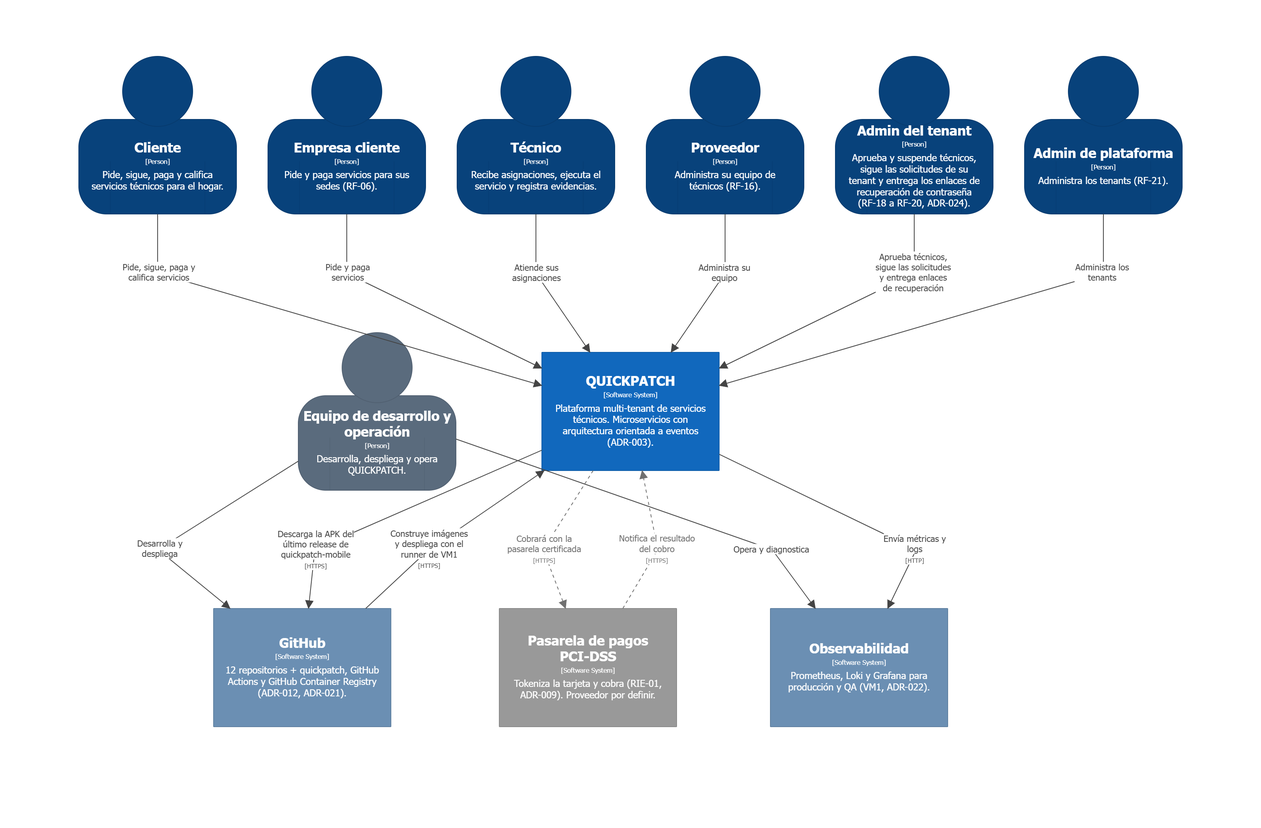
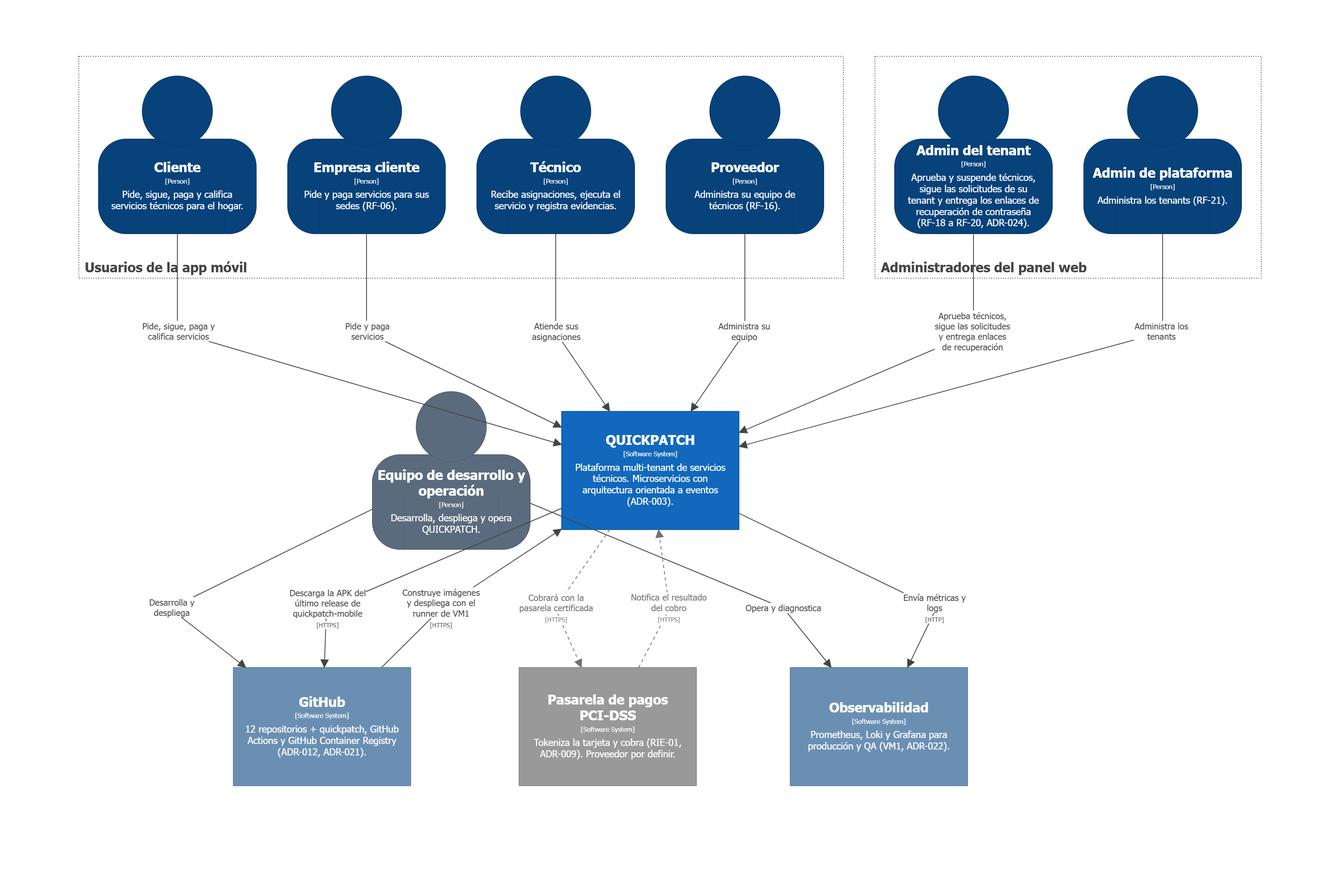
docs(c4): seis roles agrupados por canal en el contexto y «participantes» en los escenarios AC4 (SCRUM-688, SCRUM-689)

diff --git a/docs/testing/capacidad-interaccion-scrum-569.md b/docs/testing/capacidad-interaccion-scrum-569.md
@@ -24,7 +24,7 @@ Asimismo, el docente solicitó formalizar el procedimiento de verificación y el
 * **Cumple (Aprobado):** Escenario cuya métrica cuantitativa ha sido validada empíricamente con capturas de pantalla trazables en el repositorio o pruebas automatizadas de componentes/widgets en frontend.
 * **Parcial:** Escenario cuya funcionalidad e interfaz están implementadas y verificadas en condiciones estándar de QA, pero cuya certificación completa depende de una matriz de dispositivos extendida o de la sesión presencial de UAT.
 * **No cumple:** Escenario donde la métrica no alcanza el umbral establecido o cuya interfaz gráfica se encuentra pendiente de desarrollo en frontend.
-* **No medido / Pendiente UAT:** Escenario cuya métrica requiere pruebas presenciales de observación con 5 usuarios externos sin capacitación previa (programadas en la sesión de UAT formal `SCRUM-608`) o instrumentación de perfiles de hardware específicos.
+* **No medido / Pendiente UAT:** Escenario cuya métrica requiere pruebas presenciales de observación con 5 participantes externos sin capacitación previa (programadas en la sesión de UAT formal `SCRUM-608`) o instrumentación de perfiles de hardware específicos.
 
 ---
 
@@ -34,13 +34,13 @@ Asimismo, el docente solicitó formalizar el procedimiento de verificación y el
 |:---:|---|---|---|---|---|:---:|---|
 | **AC4-E1** | *Operability* | Creación de solicitud en pocos pasos | 100% de solicitudes en máx. 3 pasos (RNF-11) | **2 pantallas de acción + 1 confirmación (3 pasos)** | `tests/e2e/evidencias/movil/` (capturas 1 a 4); `apps/mobile/test/features/solicitudes/nueva_solicitud_test.dart` | **Cumple** | Flujo directo en app móvil: Inicio -> Formulario con mapa y categoría -> Detalle con confirmación de radicado. |
 | **AC4-E2** | *Operability* | Uso en distintos dispositivos | 100% de pantallas utilizables sin scroll horizontal ni cortes (RNF-12) | Verificado en resoluciones estándar de escritorio (Angular) y smartphone 392x800 dp (Flutter) | `tests/e2e/evidencias/humo-qa-2026-10-19/` (capturas 1 a 4); `tests/e2e/evidencias/movil/` (capturas 1 a 4) | **Parcial** | Diseño responsivo con Flexbox en web y `SingleChildScrollView` en móvil. Pendiente matriz formal de tablets y dispositivos compactos. |
-| **AC4-E3** | *Appropriateness Recognizability* | Reconocer si la app sirve para lo que necesito | $\ge 4$ de 5 usuarios identifican cómo solicitar en $< 30\text{ s}$ | Elementos visuales disponibles en pantalla de inicio; medición cronometrada pendiente | `docs/testing/uat-product-owner.md` (caso `UAT-003`); `tests/e2e/evidencias/movil/1-inicio-cliente.png` | **No medido** | Requiere sesión presencial con 5 usuarios de prueba sin inducción (UAT formal `SCRUM-608`). |
+| **AC4-E3** | *Appropriateness Recognizability* | Reconocer si la app sirve para lo que necesito | $\ge 4$ de 5 usuarios identifican cómo solicitar en $< 30\text{ s}$ | Elementos visuales disponibles en pantalla de inicio; medición cronometrada pendiente | `docs/testing/uat-product-owner.md` (caso `UAT-003`); `tests/e2e/evidencias/movil/1-inicio-cliente.png` | **No medido** | Requiere sesión presencial con 5 participantes de prueba sin inducción (UAT formal `SCRUM-608`). |
 | **AC4-E4** | *Learnability* | Primer uso del técnico sin capacitación | $\ge 4$ de 5 técnicos completan el ciclo en $< 10\text{ min}$ | Ciclo API probado en 19 s en QA; tiempo de interacción humana en UI pendiente | `tests/e2e/evidencias/scrum-84-seguimiento-estado-qa-2026-10-22.txt`; `docs/testing/uat-product-owner.md` (`UAT-004`) | **No medido** | El ciclo de órdenes está operativo en backend/API. La curva de aprendizaje sin capacitación se evalúa en UAT presencial. |
 | **AC4-E5** | *User Error Protection* | Protección ante errores del usuario | 0 solicitudes con campos vacíos o dirección no validada (RIE-02); 100% errores indican corrección | **0 solicitudes incompletas en BD**; validación cliente y servidor (HTTP 422 Problem Details) | `apps/mobile/lib/features/solicitudes/presentation/paginas/nueva_solicitud_page.dart`; `tests/e2e/evidencias/scrum-458-geocodificacion-buzon-qa-2026-10-22.txt`; `tests/e2e/evidencias/humo-qa-2026-10-19/3-dialogo-cancelacion.png` | **Cumple** | Bloqueo en UI móvil ante campos vacíos o falta de GPS. En web, confirmación modal obligatoria antes de acciones críticas. |
 | **AC4-E6** | *User Engagement* | Motivación para calificar el servicio | $\ge 60\%$ de servicios completados reciben calificación del cliente | Backend disponible (HTTP 201 en QA) y pantalla de calificación en la app (`SCRUM-86`, Finalizado; APK `v0.5.4-qa`); la tasa de calificación todavía no se ha medido | `tests/e2e/evidencias/humo-flujo-critico-qa-2026-10-30.txt`; `tests/e2e/evidencias/scrum-32-calificacion-qa-2026-11-04.txt` | **No medido** | La meta del 60% se mide con servicios reales completados; la primera observación se hace en la UAT (`SCRUM-608`). |
 | **AC4-E7** | *User Assistance* | Uso con distintas capacidades (Accesibilidad) | 100% de pantallas pasan accesibilidad Flutter y texto al 200% | Componentes Material 3 con áreas táctiles $\ge 48\text{ dp}$; escaneo formal pendiente | `apps/mobile/lib/`; deuda de arnés `DEF-INT-02` | **No medido** | Sin ejecución formal de `meetsGuideline` en Flutter test ni capturas instrumentadas con `textScaler: 2.0`. |
 | **AC4-E8** | *Inclusivity* | Uso en dispositivos de gama baja | Flujo sin cierres y carga $< 3\text{ s}$ por pantalla en hardware base | Backend responde en p95 = 73.55 ms; perfil de gama baja móvil no tipificado | `tests/performance/evidencias/k6-load-50vu-summary.json`; deuda técnica `DEF-INT-03` | **No medido** | Requiere que Frontend/Infraestructura formalice el dispositivo de referencia de gama baja y perfil de emulador con throttling. |
-| **AC4-E9** | *Self-descriptiveness* | Seguimiento del servicio que se explica solo | 100% de estados con texto explicativo; $\ge 4$ de 5 usuarios describen estado sin ayuda | **100% de los estados implementados con texto claro** en UI móvil | `apps/mobile/lib/features/solicitudes/presentation/paginas/detalle_solicitud_page.dart`; `tests/e2e/evidencias/movil/4-solicitud-creada.png`; `tests/e2e/evidencias/scrum-84-seguimiento-estado-qa-2026-10-22.txt` | **Parcial** | Textos informativos claros en cada estado del ciclo de vida (`EstadoSolicitud.etiqueta`). Validación con 5 usuarios en sesión UAT. |
+| **AC4-E9** | *Self-descriptiveness* | Seguimiento del servicio que se explica solo | 100% de estados con texto explicativo; $\ge 4$ de 5 usuarios describen estado sin ayuda | **100% de los estados implementados con texto claro** en UI móvil | `apps/mobile/lib/features/solicitudes/presentation/paginas/detalle_solicitud_page.dart`; `tests/e2e/evidencias/movil/4-solicitud-creada.png`; `tests/e2e/evidencias/scrum-84-seguimiento-estado-qa-2026-10-22.txt` | **Parcial** | Textos informativos claros en cada estado del ciclo de vida (`EstadoSolicitud.etiqueta`). Validación con 5 participantes en sesión UAT. |
 
 ---
 
@@ -85,7 +85,7 @@ Asimismo, el docente solicitó formalizar el procedimiento de verificación y el
 * **Sub-característica ISO/IEC 25010:2023:** *Appropriateness Recognizability* (Reconocibilidad de adecuación).
 * **Canal / Artefacto:** Pantalla inicial de bienvenida del cliente en la aplicación móvil Flutter.
 * **Estímulo:** Un cliente nuevo abre la aplicación móvil por primera vez ante un daño en su hogar (ej. fuga hidráulica o fallo eléctrico).
-* **Métrica del SAD:** Al menos 4 de 5 usuarios de prueba identifican en menos de 30 segundos cómo solicitar un servicio, sin ayuda ni inducción previa.
+* **Métrica del SAD:** Al menos 4 de 5 participantes de prueba identifican en menos de 30 segundos cómo solicitar un servicio, sin ayuda ni inducción previa.
 * **Evaluación Técnica:**
   - La pantalla principal ([`1-inicio-cliente.png`](../../tests/e2e/evidencias/movil/1-inicio-cliente.png)) despliega directamente el botón prominente *"Nueva solicitud"* y la referencia al tipo de servicio requerido.
   - No obstante, por gobernanza metodológica de QA, el cronometraje de los 30 segundos con usuarios reales sin experiencia previa debe ejecutarse en la sesión de pruebas presenciales de aceptación de usuario (UAT), especificada en [`docs/testing/uat-product-owner.md`](uat-product-owner.md) (caso `UAT-003`) bajo la tarea Jira **`SCRUM-608`**.
@@ -168,7 +168,7 @@ Asimismo, el docente solicitó formalizar el procedimiento de verificación y el
 * **Sub-característica ISO/IEC 25010:2023:** *Self-descriptiveness* (Autodescripción).
 * **Canal / Artefacto:** Pantalla de seguimiento y detalle de orden ([`DetalleSolicitudPage`](../../apps/mobile/lib/features/solicitudes/presentation/paginas/detalle_solicitud_page.dart)) y modelo de estados ([`modelos.dart`](../../apps/mobile/lib/features/solicitudes/domain/modelos.dart)).
 * **Estímulo:** El cliente residencial consulta el estado actual de su solicitud en curso (RF-11).
-* **Métrica del SAD:** 100% de los estados de la solicitud (mínimo 4, RF-11) muestran un texto que explica qué ocurre y cuál es el siguiente paso; al menos 4 de 5 usuarios de prueba describen correctamente el estado sin ayuda.
+* **Métrica del SAD:** 100% de los estados de la solicitud (mínimo 4, RF-11) muestran un texto que explica qué ocurre y cuál es el siguiente paso; al menos 4 de 5 participantes de prueba describen correctamente el estado sin ayuda.
 * **Evaluación Técnica:**
   - En la interfaz móvil Flutter, cada estado del ciclo de vida cuenta con una etiqueta textual descriptiva en español que se renderiza directamente en el encabezado de la pantalla con tipografía destacada:
     1. `buscando_tecnico` -> *"Buscando técnico"* (informa la localización en curso de un técnico idóneo cercano).
@@ -178,7 +178,7 @@ Asimismo, el docente solicitó formalizar el procedimiento de verificación y el
     5. Estados adicionales contemplados en enum: *"En espera"*, *"Cotizada"*, *"Cotización aceptada"*, *"Pagada"* y *"Cancelada"*.
   - La pantalla incluye además la descripción del trabajo, la dirección geocodificada, la fecha y hora de creación y el número de radicado ([`4-solicitud-creada.png`](../../tests/e2e/evidencias/movil/4-solicitud-creada.png)).
   - El ciclo de estados y su propagación en tiempo real está verificado en QA ([`tests/e2e/evidencias/scrum-84-seguimiento-estado-qa-2026-10-22.txt`](../../tests/e2e/evidencias/scrum-84-seguimiento-estado-qa-2026-10-22.txt)).
-  - La validación cualitativa de comprensión con 5 usuarios de prueba se consolida en la sesión presencial de UAT (`SCRUM-608`).
+  - La validación cualitativa de comprensión con 5 participantes de prueba se consolida en la sesión presencial de UAT (`SCRUM-608`).
 * **Evidencias Gráficas:**
   - ![Solicitud Creada y Estado](../../tests/e2e/evidencias/movil/4-solicitud-creada.png)
 * **Resultado Medido:** **Parcial** (100% de estados implementados con textos claros en la interfaz móvil; validación con usuarios en UAT presencial).

diff --git a/docs/testing/matriz-escenarios-calidad-52.md b/docs/testing/matriz-escenarios-calidad-52.md
@@ -41,13 +41,13 @@ La columna de métrica resume la del SAD. La medida completa de cada escenario y
 | **AC3-E2** | Compatibility | Convivencia de los 8 microservicios en VM2/VM3 | Matching $< 3\text{ s}$ p95 y 0 pods desalojados | 8 servicios coexistiendo en k3s; p95 = 73.55 ms y 0 pods desalojados | `tests/performance/evidencias/k6-stress-150vu-qa-2026-10-18.txt`; `tests/ci-results/` | **Cumple** | Convivencia sin interferencia de recursos. |
 | **AC4-E1** | Interaction Capability | Creación de solicitud en pocos pasos | 100% de solicitudes en máx. 3 pasos (RNF-11) | 2 pantallas con acción del usuario: inicio y un solo formulario (tipo de servicio, descripción, dirección y ubicación) | `tests/e2e/evidencias/movil/` (capturas 1 a 4) | **Cumple** | Capturas del recorrido en la app móvil: inicio, selector de categoría y formulario en la misma pantalla, y solicitud creada. |
 | **AC4-E2** | Interaction Capability | Uso en distintos dispositivos | 100% de pantallas sin scroll horizontal ni cortes | Verificado en escritorio (panel Angular) y smartphone 392x800 dp (app Flutter); falta la matriz formal de tablets y pantallas compactas | `tests/e2e/evidencias/humo-qa-2026-10-19/` (capturas 1 a 4); `tests/e2e/evidencias/movil/` (capturas 1 a 4); `docs/testing/capacidad-interaccion-scrum-569.md` | **Cumple** | Marcado por la PO. Falta la matriz formal de tablets y pantallas compactas como evidencia. |
-| **AC4-E3** | Interaction Capability | Reconocer si la app sirve para lo que necesito | 4 de 5 usuarios identifican cómo solicitar en $< 30\text{ s}$ | Sesión presencial programada | `docs/testing/uat-product-owner.md` | **No medido** | Se evalúa en la sesión de UAT con PO. |
+| **AC4-E3** | Interaction Capability | Reconocer si la app sirve para lo que necesito | 4 de 5 participantes identifican cómo solicitar en $< 30\text{ s}$ | Sesión presencial programada | `docs/testing/uat-product-owner.md` | **No medido** | Se evalúa en la sesión de UAT con PO. |
 | **AC4-E4** | Interaction Capability | Primer uso del técnico sin capacitación | 4 de 5 técnicos completan el ciclo en $< 10\text{ min}$ | Sesión presencial programada | `docs/testing/uat-product-owner.md` | **No medido** | Prueba con usuarios reales en UAT. |
 | **AC4-E5** | Interaction Capability | Protección ante errores del usuario | 0 solicitudes con campos vacíos o dirección no validada | 0 solicitudes incompletas; validación en la app (campos obligatorios y GPS) y en el servidor (400 con el campo y 422 ante dirección inválida) | `tests/e2e/evidencias/scrum-458-geocodificacion-buzon-qa-2026-10-22.txt`; `docs/testing/capacidad-interaccion-scrum-569.md` | **Cumple** | En web, confirmación obligatoria antes de las acciones críticas. |
 | **AC4-E6** | Interaction Capability | Motivación para calificar el servicio | $\ge 60\%$ de servicios completados reciben calificación | Pantalla de calificación en la app (SCRUM-86, APK `v0.5.4-qa`) y backend con 201; la tasa todavía no se ha medido | `tests/e2e/evidencias/scrum-32-calificacion-qa-2026-11-04.txt` | **No medido** | La pantalla ya existe; la tasa del 60% se mide con servicios reales (primera observación en la UAT, SCRUM-608). |
 | **AC4-E7** | Interaction Capability | Uso con distintas capacidades | 100% de pantallas del flujo pasan pruebas de accesibilidad | 14 pruebas con las 4 guías de Flutter en el flujo de solicitud, más una prueba de control que falla con una pantalla mala; texto al 200 % con pruebas existentes | quickpatch-mobile#58 (develop, CI en verde) | **Cumple** | Mide lo que renderiza el arnés de pruebas; no sustituye una prueba con TalkBack en un dispositivo. |
 | **AC4-E8** | Interaction Capability | Uso en dispositivos de gama baja | Flujo sin cierres y cada pantalla $< 3\text{ s}$ | Sin pruebas en emuladores de bajos recursos | *(Sin archivo de evidencia)* | **No medido** | Programado para Sprint 5. |
-| **AC4-E9** | Interaction Capability | Seguimiento que se explica solo | 100% de estados con texto explicativo; 4 de 5 usuarios describen el estado sin ayuda | 100% de los estados con texto explicativo en la app; falta la validación con 5 usuarios | `tests/e2e/evidencias/scrum-84-seguimiento-estado-qa-2026-10-22.txt`; `tests/e2e/evidencias/movil/4-solicitud-creada.png`; `docs/testing/capacidad-interaccion-scrum-569.md` | **Parcial** | La parte con usuarios se mide en la UAT (SCRUM-608). |
+| **AC4-E9** | Interaction Capability | Seguimiento que se explica solo | 100% de estados con texto explicativo; 4 de 5 participantes describen el estado sin ayuda | 100% de los estados con texto explicativo en la app; falta la validación con 5 participantes | `tests/e2e/evidencias/scrum-84-seguimiento-estado-qa-2026-10-22.txt`; `tests/e2e/evidencias/movil/4-solicitud-creada.png`; `docs/testing/capacidad-interaccion-scrum-569.md` | **Parcial** | La parte con usuarios se mide en la UAT (SCRUM-608). |
 | **AC5-E1** | Reliability | Caída de un componente no crítico | Recuperación manual en 12–24 h | Recuperación manual en 5 min 15 s (meta: 12 a 24 h) | `tests/e2e/evidencias/ac5-confiabilidad-e1-e5-e6-qa-2026-11-05.md` | **Cumple** | Componente: node_exporter de VM7 en QA. Lo recuperó un ingeniero presente; no prueba la recuperación de madrugada. |
 | **AC5-E2** | Reliability | Mantenimiento planeado | Downtime planeado $< 2\text{ h}$ | Ventana de 7 min 13 s (01:19:38 a 01:26:51 UTC, 5-nov); caída medida de 1 s; solo service-request afectado (meta: < 2 h) | `tests/e2e/evidencias/ventana-qa-release-0.12.0-2026-11-05.md` y .csv (482 muestras) | **Cumple** | Despliegue real de service-request 0.12.0. Es QA, no producción, y el medidor consulta dos rutas con resolución de 1 s. |
 | **AC5-E3** | Reliability | Caída de un microservicio | 0% de eventos perdidos; procesa backlog al reiniciar | Eventos retenidos en `outbox_events` y procesados al reconectar | `tests/e2e/evidencias/scrum-incremento-tecnico-qa-2026-10-22.txt` | **Parcial** | Garantía Outbox atómica en PostgreSQL. |
@@ -150,13 +150,13 @@ La columna de métrica de la sección 2 resume la del SAD. Esta tabla trae la **
 | **AC3-E2** | Fallo | Convivencia de los 8 microservicios en VM3 | El Matching mantiene menos de 3 segundos para el 95% de las solicitudes (AC2-E1) y 0 pods ajenos desalojados | k6 de AC2-E1 con los 8 servicios desplegados y `kubectl get events` sin `Evicted`. |
 | **AC4-E1** | Uso | Creación de solicitud en pocos pasos | 100% de las solicitudes se crean en un máximo de 3 pasos (RNF-11) | Recorrido del flujo en la app (guion o prueba de widget): número de pantallas con acción del usuario hasta crear la solicitud. |
 | **AC4-E2** | Uso | Uso en distintos dispositivos | 100% de las pantallas son utilizables sin scroll horizontal ni elementos cortados en los tamaños soportados (RNF-12) | Pruebas de widget en los tamaños soportados (RNF-12) sin errores de desbordamiento (`RenderFlex overflowed`). |
-| **AC4-E3** | Uso | Reconocer si la aplicación sirve para lo que necesito | Al menos 4 de 5 usuarios de prueba identifican en menos de 30 segundos cómo solicitar un servicio, sin ayuda | Sesión con 5 usuarios de prueba, cronometrada (UAT, SCRUM-605). |
+| **AC4-E3** | Uso | Reconocer si la aplicación sirve para lo que necesito | Al menos 4 de 5 participantes de prueba identifican en menos de 30 segundos cómo solicitar un servicio, sin ayuda | Sesión con 5 participantes de prueba, cronometrada (UAT, SCRUM-605). |
 | **AC4-E4** | Uso | Primer uso del técnico sin capacitación | Al menos 4 de 5 técnicos de prueba completan el ciclo sin asistencia y en menos de 10 minutos, sin contar el tiempo del servicio en sí | Sesión con 5 técnicos de prueba, cronometrada y sin asistencia (UAT, SCRUM-605). |
 | **AC4-E5** | Fallo | Protección ante errores del usuario | 0 solicitudes creadas con campos obligatorios vacíos o con dirección no validada por el servicio de geolocalización (RIE-02); 100% de los errores de validación indican el campo y la corrección esperada | Consulta en `db_service_request`: solicitudes sin campos obligatorios o sin ubicación validada (0). Colecciones: cada 400 trae el campo en `errors` y la dirección inválida da 422. |
 | **AC4-E6** | Uso | Motivación para calificar el servicio | Al menos el 60% de los servicios completados reciben calificación del cliente, medido con `ratings` frente a `service_requests` en estado `completado` | Consulta en `db_service_request`: `ratings` frente a solicitudes en `completado` o `pagado`, en un periodo con uso real. |
 | **AC4-E7** | Uso | Uso con distintas capacidades | 100% de las pantallas del flujo de solicitud pasan las pruebas de accesibilidad de Flutter (contraste de texto, etiquetas y tamaño mínimo de las áreas táctiles) y el flujo se completa con el texto al 200% | `flutter test` con `meetsGuideline` (contraste, etiquetas y área táctil) en las pantallas del flujo, y el flujo con `textScaler` al 200%. |
 | **AC4-E8** | Uso | Uso en dispositivos de gama baja | El flujo completo de solicitud y de aceptación se completa sin cierres inesperados y cada pantalla carga en menos de 3 segundos en el dispositivo de referencia de gama baja que defina el equipo | Recorrido en el dispositivo de referencia de gama baja que defina el equipo, cronometrando cada pantalla. |
-| **AC4-E9** | Uso | Seguimiento del servicio que se explica solo | 100% de los estados de la solicitud (mínimo 4, RF-11) muestran un texto que explica qué ocurre y cuál es el siguiente paso; al menos 4 de 5 usuarios de prueba describen correctamente el estado sin ayuda | Revisión de los textos de cada estado en la app y sesión con 5 usuarios de prueba (UAT). |
+| **AC4-E9** | Uso | Seguimiento del servicio que se explica solo | 100% de los estados de la solicitud (mínimo 4, RF-11) muestran un texto que explica qué ocurre y cuál es el siguiente paso; al menos 4 de 5 participantes de prueba describen correctamente el estado sin ayuda | Revisión de los textos de cada estado en la app y sesión con 5 participantes de prueba (UAT). |
 | **AC5-E1** | Fallo | Caída de un componente no crítico | Recuperación manual en un plazo de **12 a 24 horas**, dado que no hay operación 24/7 | Simulacro en QA: se detiene un componente no crítico y se registra cuánto tarda la recuperación manual. |
 | **AC5-E2** | Uso | Mantenimiento planeado | Downtime planeado menor a **2 horas** | Registro de una ventana de mantenimiento real (inicio, fin y servicios afectados). |
 | **AC5-E3** | Fallo | Caída de un microservicio individual | 0% de eventos perdidos durante la caída; el servicio recupera y procesa el backlog pendiente al reiniciar | Prueba en QA: el consumidor se escala a 0, se generan eventos y se reinicia. Pendientes en `outbox_events` y procesados en `processed_events` antes y después (0 perdidos). |

diff --git a/docs/architecture/SAD.md b/docs/architecture/SAD.md
@@ -341,7 +341,7 @@ Característica agregada en esta versión (ver sección 2). Cubre si el sistema 
 |Ambiente|Primer uso, sin instrucciones previas|
 |Artefacto|Pantalla inicial de la aplicación móvil|
 |Respuesta|Muestra las categorías de servicio disponibles y la acción para solicitar un servicio, de modo que el usuario reconoce que la aplicación resuelve su necesidad|
-|Medida|Al menos 4 de 5 usuarios de prueba identifican en menos de 30 segundos cómo solicitar un servicio, sin ayuda|
+|Medida|Al menos 4 de 5 participantes de prueba identifican en menos de 30 segundos cómo solicitar un servicio, sin ayuda|
 
 **Escenario 4 — Primer uso del técnico sin capacitación** · _Tipo: Uso_ · _(Learnability)_
 
@@ -407,9 +407,9 @@ Característica agregada en esta versión (ver sección 2). Cubre si el sistema 
 |Ambiente|Operación normal|
 |Artefacto|Pantalla de seguimiento del servicio|
 |Respuesta|Muestra por sí sola el estado actual, qué sigue y quién es el técnico asignado, sin abrir otras pantallas ni consultar ayuda externa|
-|Medida|100% de los estados de la solicitud (mínimo 4, RF-11) muestran un texto que explica qué ocurre y cuál es el siguiente paso; al menos 4 de 5 usuarios de prueba describen correctamente el estado sin ayuda|
+|Medida|100% de los estados de la solicitud (mínimo 4, RF-11) muestran un texto que explica qué ocurre y cuál es el siguiente paso; al menos 4 de 5 participantes de prueba describen correctamente el estado sin ayuda|
 
-> **Nota:** los escenarios 3, 4 y 9 se miden con pruebas con 5 usuarios, y el 5 y el 7 con pruebas automáticas y manuales sobre la aplicación; hay que definir quién las ejecuta (QA o Product Owner) y cuándo. El escenario 8 requiere que Frontend defina el dispositivo de referencia de gama baja.
+> **Nota:** los escenarios 3, 4 y 9 se miden con pruebas con 5 participantes, y el 5 y el 7 con pruebas automáticas y manuales sobre la aplicación; hay que definir quién las ejecuta (QA o Product Owner) y cuándo. El escenario 8 requiere que Frontend defina el dispositivo de referencia de gama baja.
 
 ### 3.5 AC5 — Reliability
 
@@ -808,7 +808,7 @@ Un escenario con importancia de negocio **Alta** y dificultad arquitectónica **
 
 > Los 8 escenarios de Safety agregados en la versión 2.7 (AC9-E1 a AC9-E8) también son una primera propuesta: sus medidas (calificación de 3.0, 5 servicios, 4 horas, 85%, 15 minutos) deben validarse con el equipo y su valoración propuesta (†) ratificarse en la sesión ATAM. AC9-E6 es una alerta operativa, más cercana a *Reliability* que a *Safety*, y puede reemplazarse cuando se cierre el escenario de alerta sobre la habilitación de técnicos.
 
-> Los 7 escenarios de Capacidad de interacción agregados en la versión 2.8 (AC4-E3 a AC4-E9) también son una primera propuesta: sus umbrales (4 de 5 usuarios, 30 segundos, 10 minutos, 60% de calificaciones, 3 segundos) deben validarse con el equipo y su valoración propuesta (†) ratificarse en la sesión ATAM.
+> Los 7 escenarios de Capacidad de interacción agregados en la versión 2.8 (AC4-E3 a AC4-E9) también son una primera propuesta: sus umbrales (4 de 5 participantes, 30 segundos, 10 minutos, 60% de calificaciones, 3 segundos) deben validarse con el equipo y su valoración propuesta (†) ratificarse en la sesión ATAM.
 
 |Escenario|Atributo|Importancia de negocio|Dificultad arquitectónica|Prioridad|
 |---|---|---|---|---|
@@ -1271,7 +1271,7 @@ Consistente con D5 y ADR-005 (shared-schema con `tenant_id` + Row-Level Security
 |2.5|21 sep 2026|Se recupera la versión 2.4 (reestructuración ISO/IEC 25010:2023) tras un reset del repositorio que la había descartado (nunca se había commiteado) y se combina con el estado actual del remoto. Se actualizan las 5 referencias al Documento de Infraestructura a su nueva numeración de 14 secciones: presupuesto de recursos 4.2 → 5.6 (2 menciones), observabilidad 8 → 7, Ansible 3 → 5.1, CI/CD 5 → 6. El cambio 4.2 → 5.6 en la nota del punto único de falla de VM3 coincide con el que ya había hecho el remoto.|
 |2.6|21 sep 2026|Se agregan 10 escenarios de calidad (AC1-E2, AC1-E3, AC2-E5, AC3-E2, AC5-E6, AC6-E7, AC6-E8, AC7-E4, AC7-E5, AC8-E5) que cubren *Functional Completeness*, *Functional Appropriateness*, *Resource Utilization*, *Co-existence*, *Faultlessness*, *Non-repudiation*, *Resistance*, *Analysability*, *Reusability* e *Installability*. La cobertura sube de 26 a 36 escenarios y de 18 a 28 de las 40 subcaracterísticas. Las medidas se apoyan en las herramientas del plan (k6, Loki, `kubectl`, Ansible) y son una primera propuesta pendiente de validación del equipo y de votación ATAM; AC6-E7 y AC7-E5 requieren confirmación de Backend, y la medición de AC5-E6 y AC7-E4 requiere que el access log del gateway incluya `$status` y `$request_time` y que todos los logs lleven `correlationId`. Pendiente: AC4 Interaction Capability (7) y AC9 Safety (5).|
 |2.7|21 sep 2026|Se define Safety para QUICKPATCH (riesgo físico y patrimonial por fallos de la plataforma, no protección de datos, que es Security) y se agregan 8 escenarios (AC9-E1 a AC9-E8) que cubren *Operational Constraint*, *Risk Identification*, *Fail Safe*, *Hazard Warning* y *Safe Integration*. La cobertura sube de 36 a 44 escenarios y de 28 a 33 de las 40 subcaracterísticas. Los escenarios que dependen de decisiones de diseño sin cerrar (cómo el Matching conoce el estado de verificación del técnico y un atributo de riesgo en las categorías de servicio) quedan como pendiente en la sección 3.9. Pendiente: AC4 Interaction Capability (7).|
-|2.8|21 sep 2026|Se agregan 7 escenarios (AC4-E3 a AC4-E9) que cubren las subcaracterísticas de Interaction Capability que faltaban: *Appropriateness Recognizability*, *Learnability*, *User Error Protection*, *User Engagement*, *User Assistance*, *Inclusivity* y *Self-descriptiveness*. La cobertura sube de 44 a 51 escenarios y de 33 a las 40 subcaracterísticas de ISO/IEC 25010:2023. Las medidas son una primera propuesta pendiente de validación del equipo y de votación ATAM; tres se miden con pruebas de usabilidad con 5 usuarios y una requiere que Frontend defina el dispositivo de referencia de gama baja.|
+|2.8|21 sep 2026|Se agregan 7 escenarios (AC4-E3 a AC4-E9) que cubren las subcaracterísticas de Interaction Capability que faltaban: *Appropriateness Recognizability*, *Learnability*, *User Error Protection*, *User Engagement*, *User Assistance*, *Inclusivity* y *Self-descriptiveness*. La cobertura sube de 44 a 51 escenarios y de 33 a las 40 subcaracterísticas de ISO/IEC 25010:2023. Las medidas son una primera propuesta pendiente de validación del equipo y de votación ATAM; tres se miden con pruebas de usabilidad con 5 participantes y una requiere que Frontend defina el dispositivo de referencia de gama baja.|
 |2.9|22 sep 2026|Revisión de los killers tras una revisión adversarial independiente. K5 queda con una sola lectura (producción, cómputo y datos de usuarios, corre en las 7 VMs; se permiten herramientas gratuitas de desarrollo y CI; la pasarela de pagos es la única dependencia externa de producción), lo que resuelve por qué se descarta Cloudflare R2 y se usa GitHub Container Registry. K2 pasa a "Cumplimiento PCI-DSS" con el origen corregido (la norma prohíbe guardar el CVV; no guardar el PAN es decisión del equipo). K6 se precisa a Bogotá D.C. y reconoce la normativa colombiana. K7 aclara qué permite. Se agregan K9 (red privada del laboratorio sin dominio público), K10 (hardware fijo de 7 VMs) y K11 (un solo administrador de infraestructura). K4 y K8 se retiran como killers y pasan a una nueva sección 1.3 de fuera de alcance (FA1, FA2), junto con chat y reclamos (FA3). Las citas que usaban K5 como "sin VMs adicionales" pasan a K10, y se corrigen las justificaciones de ADR-005 (K3 en vez de K5) y ADR-007 (sin K5). Queda pendiente la decisión sobre cómo alcanzar el sistema desde fuera de la red del laboratorio (nota en la sección 1.2).|
 |2.10|22 sep 2026|Revisión de los drivers tras una revisión adversarial independiente. D1 deja de mencionar la ventana horaria, que el modelo de datos nunca tuvo: la asignación es inmediata (se corrigen AC1-E3 y AC9-E4, que la citaban). El antiguo D4 (PCI-DSS) pasa al killer K2. Se agregan dos drivers que ya daban forma a la arquitectura sin estar declarados: seguimiento en tiempo real y evidencia fotográfica obligatoria. El doble ranking se reduce a la reputación del técnico, porque el ranking de materiales está fuera del MVP, y el merchant of record se acota a emitir el comprobante del pago. Los orígenes citan requisitos o decisiones del equipo en vez de afirmar hechos sin respaldo. Equivalencias de numeración: D1 → D1; D2 (doble ranking) → D3; D3 (merchant of record) → D4; D4 (PCI-DSS) → K2; D5 → D5; D8 → D6; nuevos D2 (tiempo real) y D7 (evidencia fotográfica). Cada driver sustenta ahora al menos un atributo de calidad o un ADR.|
 |2.11|22 sep 2026|Los orígenes de los drivers y de K1 dejan de citar la presentación del Sprint 1 y citan los requisitos y las funciones del SRS. Se agrega la sección 1.4, una matriz que traza cada driver hasta sus requisitos, escenarios de calidad y ADR.|

diff --git a/docs/testing/TD.md b/docs/testing/TD.md
@@ -423,14 +423,14 @@ El SRS 5.11 (borrador de la V6) formaliza un total de **33 Requisitos Funcionale
 ---
 
 #### 7.1.2 Trazabilidad hacia Escenarios de Calidad del SAD (V2.47)
-El SAD formaliza **52 escenarios de calidad (AC1-E1 a AC9-E8)** cubriendo las 40 subcaracterísticas de ISO/IEC 25010:2023. De estos, el presente plan automatiza **38 escenarios arquitectónicos y de software**. El estado medido de cada uno está en `docs/testing/matriz-escenarios-calidad-52.md`. Los 14 escenarios restantes corresponden a pruebas presenciales de interacción humana con 5 usuarios (AC4-E3 a AC4-E9), análisis estático de código documental (AC7-E1, AC7-E2, AC8-E3, AC8-E4) y escenarios con dependencias de diseño pendientes en el backend (AC9-E2, AC9-E7, AC9-E8).
+El SAD formaliza **52 escenarios de calidad (AC1-E1 a AC9-E8)** cubriendo las 40 subcaracterísticas de ISO/IEC 25010:2023. De estos, el presente plan automatiza **38 escenarios arquitectónicos y de software**. El estado medido de cada uno está en `docs/testing/matriz-escenarios-calidad-52.md`. Los 14 escenarios restantes corresponden a pruebas presenciales de interacción humana con 5 participantes (AC4-E3 a AC4-E9), análisis estático de código documental (AC7-E1, AC7-E2, AC8-E3, AC8-E4) y escenarios con dependencias de diseño pendientes en el backend (AC9-E2, AC9-E7, AC9-E8).
 
 | Atributo de Calidad (ISO 25010) | Escenarios Automatizados | Total SAD | Casos de Prueba Automatizados |
 |---|:---:|:---:|---|
 | **AC1: Adecuación Funcional** | 3 / 3 | 3 | `AC1-E1` (MAT-001), `AC1-E2` (E2E-001), `AC1-E3` (SRQ-005) |
 | **AC2: Eficiencia de Desempeño** | 5 / 5 | 5 | `AC2-E1` (PRF-001), `AC2-E2` (PRF-002), `AC2-E3` (PRF-003), `AC2-E4` (PRF-004), `AC2-E5` (PRF-005) |
 | **AC3: Compatibilidad** | 2 / 2 | 2 | `AC3-E1` (PAY-014), `AC3-E2` (MAT-022) |
-| **AC4: Capacidad de Interacción** | 2 / 9 | 9 | `AC4-E1` (E2E-005), `AC4-E2` (E2E-006). *(AC4-E3 a AC4-E9 son pruebas presenciales con 5 usuarios)* |
+| **AC4: Capacidad de Interacción** | 2 / 9 | 9 | `AC4-E1` (E2E-005), `AC4-E2` (E2E-006). *(AC4-E3 a AC4-E9 son pruebas presenciales con 5 participantes)* |
 | **AC5: Confiabilidad** | 6 / 6 | 6 | `AC5-E1` (INF-008), `AC5-E2` (INF-015), `AC5-E3` (RNK-006), `AC5-E4` (INF-014), `AC5-E5` (SRQ-024, AC5-E5 Idempotencia), `AC5-E6` (E2E-012) |
 | **AC6: Seguridad** | 8 / 8 | 8 | `AC6-E1` (PAY-001, PAY-002), `AC6-E2` (IDN-009, RLS-001..005), `AC6-E3` (IDN-011), `AC6-E4` (IDN-017), `AC6-E5` (E2E-011), `AC6-E6` (PAY-015), `AC6-E7` (IDN-020), `AC6-E8` (IDN-007, IDN-008) |
 | **AC7: Mantenibilidad** | 4 / 6 | 6 | `AC7-E3` (CTR-001), `AC7-E4` (INF-012), `AC7-E5` (ACT-013), `AC7-E6` (SMK-003). *(AC7-E1/E2 verificados por linters estáticos)* |
